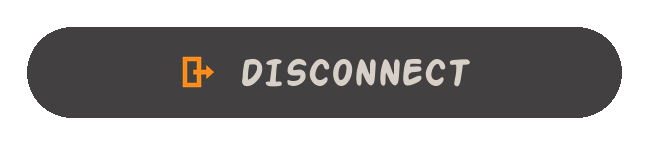
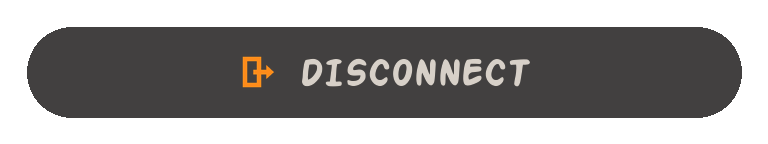
Menu: same-width buttons, edge vignette, Discord/YouTube links and live server status in the corners
- SETTINGS/ABOUT/QUIT/DISCONNECT pills now as wide as PLAY
- dark vignette over the background
- bottom-left Discord + YouTube links (hover highlight, hand cursor), no bar
- bottom-right online status with player count, queried every 30 s
- About: real Discord invite

Claude-Session: https://claude.ai/code/session_019iFPUiJ4pn1jDKpmaqQk5z

diff --git a/Client/core/CMainMenu.cpp b/Client/core/CMainMenu.cpp
@@ -304,6 +304,24 @@ CMainMenu::CMainMenu(CGUI* pManager)
     m_pMenuArea->SetMouseEnterHandler(GUI_CALLBACK(&CMainMenu::OnMenuEnter, this));
     m_pMenuArea->SetMouseLeaveHandler(GUI_CALLBACK(&CMainMenu::OnMenuExit, this));
 
+#if MAJORRP_MENU_VIGNETTE
+    {
+        // Dark edges over the background (child, so it fades in and out with it)
+        CGUIStaticImage* pVignette = reinterpret_cast<CGUIStaticImage*>(pManager->CreateStaticImage(m_pBackground));
+        if (pVignette->LoadFromFile("cgui\\images\\majorrp\\menu_vignette.png"))
+        {
+            pVignette->SetPosition(CVector2D(0, 0), true);
+            pVignette->SetSize(CVector2D(1, 1), true);
+            pVignette->SetProperty("MousePassThroughEnabled", "True");
+        }
+        else
+            m_pManager->DestroyElementRecursive(pVignette);
+    }
+#endif
+#if MAJORRP_MENU_CORNER_INFO
+    MajorRpCreateCornerInfo();
+#endif
+
     m_pLatestNews = reinterpret_cast<CGUIStaticImage*>(pManager->CreateStaticImage());
     if (!m_pLatestNews->LoadFromFile(PathJoin(g_pCore->GetLocalization()->GetLanguageDirectory(), "latest_news.png")))
     {
@@ -496,6 +514,14 @@ CMainMenu::~CMainMenu()
     destroyElement(m_pLogo);
     destroyElement(m_pLatestNews);
     destroyElement(m_pVersion);
+#if MAJORRP_MENU_CORNER_INFO
+    for (CGUIStaticImage*& pLink : m_pMajorRpLinks)
+        destroyElement(pLink);
+    for (CGUIStaticImage*& pDot : m_pMajorRpDots)
+        destroyElement(pDot);
+    destroyElement(m_pMajorRpServerText);
+    SAFE_DELETE(m_pMajorRpServerQuery);
+#endif
 #if MAJORRP_PLAY_CONNECTING_STATE
     destroyElement(m_pMajorRpStatus);
     m_pMajorRpConnecting = nullptr;  // child of the PLAY image, freed with it
@@ -600,6 +626,10 @@ void CMainMenu::Update()
 #endif
 #if MAJORRP_PLAY_CONNECTING_STATE
     MajorRpUpdateConnectState();
+#endif
+#if MAJORRP_MENU_CORNER_INFO
+    if (m_bIsVisible)
+        MajorRpUpdateServerStatus();
 #endif
 #if MAJORRP_HAND_CURSOR
     // Hand cursor while a menu pill is hovered (the pills sit under one invisible click area)
@@ -1005,6 +1035,167 @@ void CMainMenu::SetIsIngame(bool bIsIngame)
         m_iMoveStartPos = m_menuAY;
     }
 }
+
+#if MAJORRP_MENU_CORNER_INFO
+// Bottom-left: Discord and YouTube links. Bottom-right: live server status. No bar behind them.
+void CMainMenu::MajorRpCreateCornerInfo()
+{
+    CGUI*       pManager = g_pCore->GetGUI();
+    const float fScale = m_iMenuSizeY / 1080.0f;
+    const float fMargin = 30.0f * fScale;
+    const float fRowY = m_iMenuSizeY - fMargin - 22.0f * fScale;
+    const char* szLinks[2] = {"menu_link_discord", "menu_link_youtube"};
+    float       fX = fMargin;
+    for (int i = 0; i < 2; i++)
+    {
+        CGUIStaticImage* pLink = reinterpret_cast<CGUIStaticImage*>(pManager->CreateStaticImage(m_pCanvas));
+        if (!pLink->LoadFromFile(SString("cgui\\images\\majorrp\\%s.png", szLinks[i])))
+        {
+            m_pManager->DestroyElementRecursive(pLink);
+            continue;
+        }
+        CVector2D vecNative;
+        pLink->GetNativeSize(vecNative);
+        const CVector2D vecSize = vecNative * (0.5f * fScale);
+        pLink->SetPosition(CVector2D(fX, fRowY), false);
+        pLink->SetSize(vecSize, false);
+        pLink->SetProperty("InheritsAlpha", "False");
+        pLink->SetProperty("MouseCursorImage", "set:CGUI-Images image:MouseHand");
+        pLink->SetClickHandler(GUI_CALLBACK(&CMainMenu::OnMajorRpLinkClick, this));
+        pLink->SetMouseEnterHandler(GUI_CALLBACK(&CMainMenu::OnMajorRpLinkEnter, this));
+        pLink->SetMouseLeaveHandler(GUI_CALLBACK(&CMainMenu::OnMajorRpLinkLeave, this));
+
+        CGUIStaticImage* pHover = reinterpret_cast<CGUIStaticImage*>(pManager->CreateStaticImage(pLink));
+        if (pHover->LoadFromFile(SString("cgui\\images\\majorrp\\%s_hover.png", szLinks[i])))
+        {
+            pHover->SetPosition(CVector2D(0, 0), true);
+            pHover->SetSize(CVector2D(1, 1), true);
+            pHover->SetProperty("MousePassThroughEnabled", "True");
+            pHover->SetAlpha(0);
+            m_pMajorRpLinkHovers[i] = pHover;
+        }
+        else
+            m_pManager->DestroyElementRecursive(pHover);
+
+        m_pMajorRpLinks[i] = pLink;
+        fX += vecSize.fX + 34.0f * fScale;
+    }
+
+    const char* szDots[3] = {"green", "red", "grey"};
+    for (int i = 0; i < 3; i++)
+    {
+        CGUIStaticImage* pDot = reinterpret_cast<CGUIStaticImage*>(pManager->CreateStaticImage(m_pCanvas));
+        if (!pDot->LoadFromFile(SString("cgui\\images\\majorrp\\menu_dot_%s.png", szDots[i])))
+        {
+            m_pManager->DestroyElementRecursive(pDot);
+            continue;
+        }
+        pDot->SetSize(CVector2D(16.0f * fScale, 16.0f * fScale), false);
+        pDot->SetProperty("InheritsAlpha", "False");
+        pDot->SetProperty("MousePassThroughEnabled", "True");
+        pDot->SetVisible(false);
+        m_pMajorRpDots[i] = pDot;
+    }
+
+    m_pMajorRpServerText = reinterpret_cast<CGUILabel*>(pManager->CreateLabel(m_pCanvas, ""));
+    m_pMajorRpServerText->SetFont("majorrp-stat");
+    m_pMajorRpServerText->SetHorizontalAlign(CGUI_ALIGN_RIGHT);
+    m_pMajorRpServerText->SetVerticalAlign(CGUI_ALIGN_VERTICALCENTER);
+    m_pMajorRpServerText->SetTextColor(220, 212, 204);
+    m_pMajorRpServerText->SetProperty("InheritsAlpha", "False");
+    m_pMajorRpServerText->SetProperty("MousePassThroughEnabled", "True");
+    m_pMajorRpServerText->SetSize(CVector2D(500.0f * fScale, 22.0f * fScale), false);
+    m_pMajorRpServerText->SetPosition(CVector2D(m_iMenuSizeX - fMargin - 500.0f * fScale, fRowY), false);
+}
+
+bool CMainMenu::OnMajorRpLinkClick(CGUIElement* pElement)
+{
+    if (pElement == m_pMajorRpLinks[0])
+        ShellExecuteNonBlocking("open", "https://" MAJORRP_DISCORD_URL);
+    else if (pElement == m_pMajorRpLinks[1])
+        ShellExecuteNonBlocking("open", MAJORRP_YOUTUBE_URL);
+    return true;
+}
+
+bool CMainMenu::OnMajorRpLinkEnter(CGUIElement* pElement)
+{
+    for (int i = 0; i < 2; i++)
+        if (pElement == m_pMajorRpLinks[i] && m_pMajorRpLinkHovers[i])
+            m_pMajorRpLinkHovers[i]->SetAlpha(1);
+    return true;
+}
+
+bool CMainMenu::OnMajorRpLinkLeave(CGUIElement* pElement)
+{
+    for (int i = 0; i < 2; i++)
+        if (pElement == m_pMajorRpLinks[i] && m_pMajorRpLinkHovers[i])
+            m_pMajorRpLinkHovers[i]->SetAlpha(0);
+    return true;
+}
+
+// Asks the server for its player count (same query the server browser uses), every 30 seconds
+void CMainMenu::MajorRpUpdateServerStatus()
+{
+    if (!m_pMajorRpServerText)
+        return;
+
+    const unsigned long ulNow = GetTickCount32();
+    if (!m_pMajorRpServerQuery)
+    {
+        in_addr address;
+        if (!CServerListItem::Parse(MAJORRP_SERVER_HOST, address))
+            return;
+        m_pMajorRpServerQuery = new CServerListItem(address, MAJORRP_SERVER_PORT);
+        m_ulMajorRpQueryTick = ulNow;
+    }
+
+    m_pMajorRpServerQuery->Pulse(true);
+
+    int iState = m_iMajorRpServerState < 0 ? -1 : m_iMajorRpServerState;  // keep the last result while re-checking
+    if (m_pMajorRpServerQuery->bScanned)
+    {
+        iState = 1;
+        m_usMajorRpPlayers = m_pMajorRpServerQuery->nPlayers;
+        m_usMajorRpMaxPlayers = m_pMajorRpServerQuery->nMaxPlayers;
+    }
+    else if (m_pMajorRpServerQuery->bSkipped)
+        iState = 0;
+
+    if ((m_pMajorRpServerQuery->bScanned || m_pMajorRpServerQuery->bSkipped) && ulNow - m_ulMajorRpQueryTick > 30000)
+    {
+        m_pMajorRpServerQuery->ResetForRefresh();
+        m_ulMajorRpQueryTick = ulNow;
+    }
+
+    SString strText;
+    if (iState == 1)
+        strText = SString(_("ONLINE   %u / %u players"), m_usMajorRpPlayers, m_usMajorRpMaxPlayers);
+    else if (iState == 0)
+        strText = _("SERVER OFFLINE");
+    else
+        strText = _("CHECKING SERVER...");
+
+    if (iState == m_iMajorRpServerState && m_pMajorRpServerText->GetText() == strText)
+        return;
+    m_iMajorRpServerState = iState;
+    m_pMajorRpServerText->SetText(strText);
+
+    // Dot just left of the right-aligned text
+    const int       iDot = iState == 1 ? 0 : (iState == 0 ? 1 : 2);
+    const CVector2D vecTextPos = m_pMajorRpServerText->GetPosition(false);
+    const CVector2D vecTextSize = m_pMajorRpServerText->GetSize(false);
+    const float     fExtent = m_pMajorRpServerText->GetTextExtent();
+    for (int i = 0; i < 3; i++)
+    {
+        if (!m_pMajorRpDots[i])
+            continue;
+        m_pMajorRpDots[i]->SetVisible(i == iDot);
+        const CVector2D vecDot = m_pMajorRpDots[i]->GetSize(false);
+        m_pMajorRpDots[i]->SetPosition(CVector2D(vecTextPos.fX + vecTextSize.fX - fExtent - vecDot.fX - 6.0f, vecTextPos.fY + (vecTextSize.fY - vecDot.fY) / 2),
+                                       false);
+    }
+}
+#endif
 
 #if MAJORRP_PLAY_CONNECTING_STATE
 bool CMainMenu::MajorRpCanShowConnectState()

diff --git a/Client/core/CMainMenu.h b/Client/core/CMainMenu.h
@@ -113,6 +113,22 @@ private:
     unsigned int                  m_uiMajorRpSpinnerFrame = 0;
     bool                          m_bMajorRpHandCursor = false;
 
+    // MAJOR RP: corner links and server status
+    void                   MajorRpCreateCornerInfo();
+    void                   MajorRpUpdateServerStatus();
+    bool                   OnMajorRpLinkClick(CGUIElement* pElement);
+    bool                   OnMajorRpLinkEnter(CGUIElement* pElement);
+    bool                   OnMajorRpLinkLeave(CGUIElement* pElement);
+    CGUIStaticImage*       m_pMajorRpLinks[2] = {};
+    CGUIStaticImage*       m_pMajorRpLinkHovers[2] = {};
+    CGUIStaticImage*       m_pMajorRpDots[3] = {};  // green, red, grey
+    CGUILabel*             m_pMajorRpServerText = nullptr;
+    class CServerListItem* m_pMajorRpServerQuery = nullptr;
+    unsigned long          m_ulMajorRpQueryTick = 0;
+    int                    m_iMajorRpServerState = -2;  // -1 checking, 0 offline, 1 online
+    unsigned short         m_usMajorRpPlayers = 0;
+    unsigned short         m_usMajorRpMaxPlayers = 0;
+
     sMenuItem* CreateItem(unsigned char menuType, const char* szFilename, CVector2D vecRelPosition);
     bool       SetItemHoverProgress(sMenuItem* pItem, float fProgress, bool bHovering);
 

diff --git a/Shared/sdk/majorrp_config.h b/Shared/sdk/majorrp_config.h
@@ -41,7 +41,7 @@
 
 // About window
 #define MAJORRP_OWNER_NAME  "Danex"
-#define MAJORRP_DISCORD_URL "discord.gg/majorrp"  // placeholder: put your real invite here
+#define MAJORRP_DISCORD_URL "discord.gg/zcUs9YxCEm"
 #define MAJORRP_SOURCE_URL  "github.com/danielsrasainis/MAJOR-RP"
 
 // 1 = hide MTA's "The Latest News" headlines on the main menu
@@ -81,3 +81,10 @@
 
 // 1 = hand cursor over the menu pills (skin buttons/checkboxes/tabs/combos get it from CGUI.lnf.xml)
 #define MAJORRP_HAND_CURSOR 1
+
+// 1 = main menu corners (no bar): Discord + YouTube links bottom-left, live server status bottom-right
+#define MAJORRP_MENU_CORNER_INFO 1
+#define MAJORRP_YOUTUBE_URL      "https://www.youtube.com/@Danexxx777"
+
+// 1 = darken the menu background towards the screen edges
+#define MAJORRP_MENU_VIGNETTE 1
